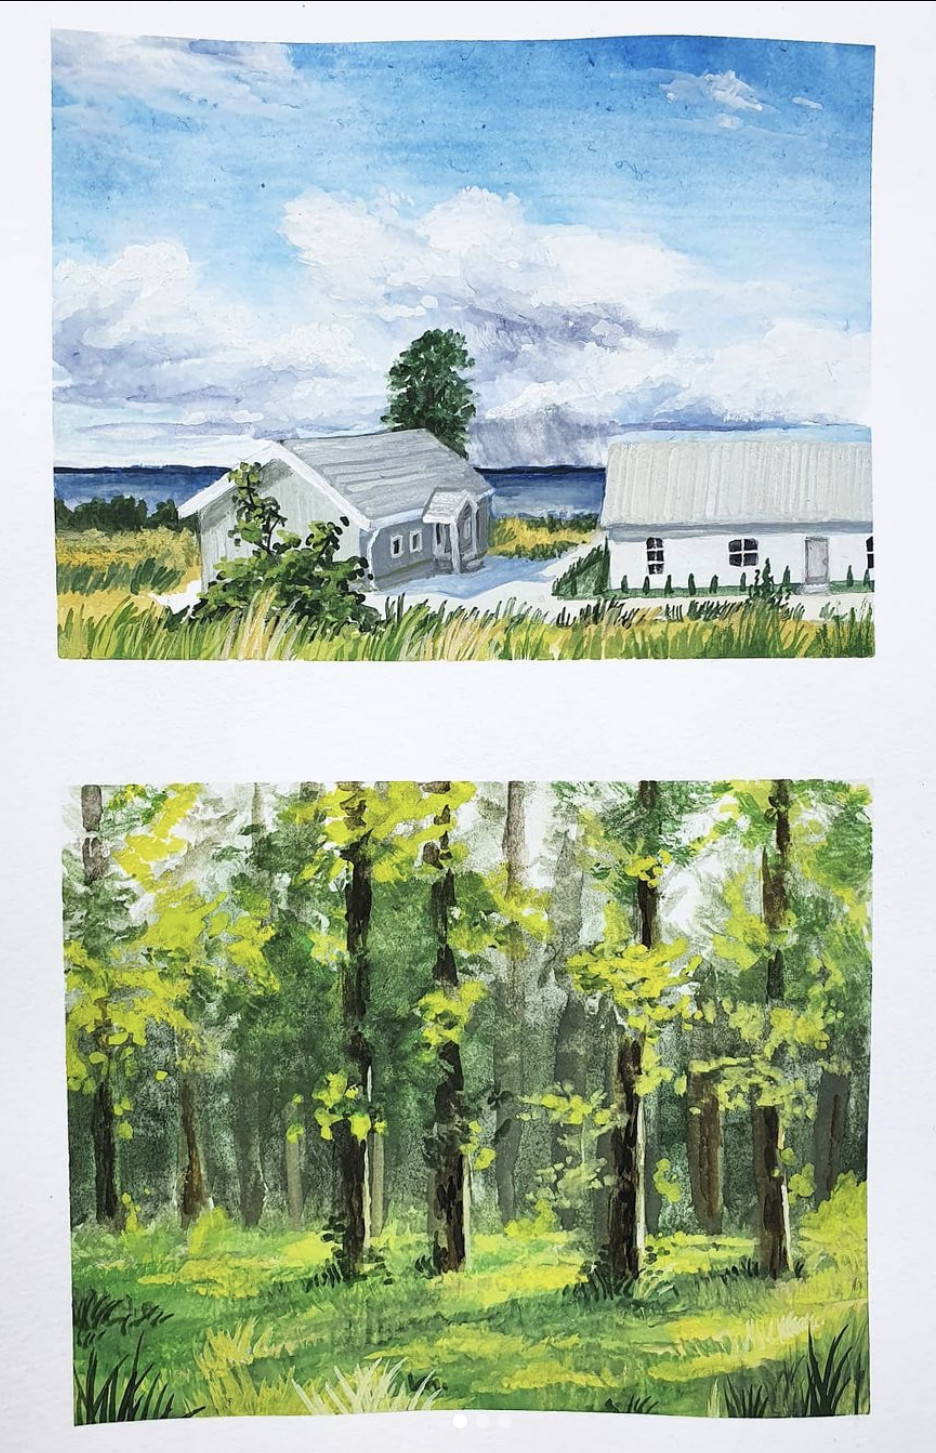
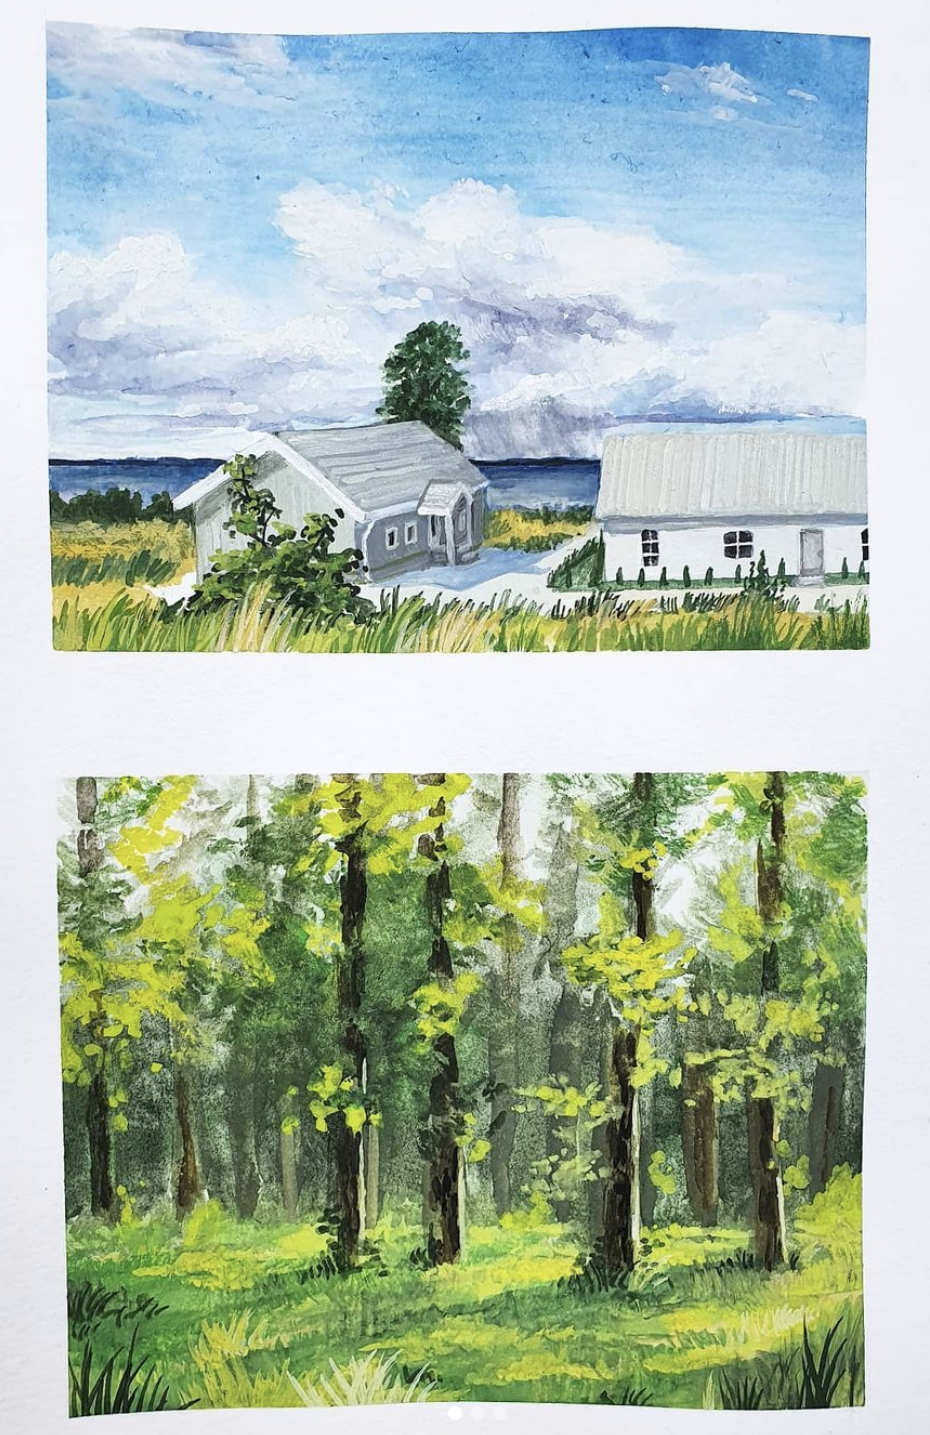
image alignment

diff --git a/index.html b/index.html
@@ -52,13 +52,16 @@
                     <p>Done together with Molly Gidfors Haraldsson, Emily Nilsson & Lucas Åkesson</p>
                 </div>
             </div>
-            
+
             <div class="pageElement"> 
                 <h2>Art & illustrations</h2>
-                <img src="instagram4.png">
-                <img src="instagram5.png">
-                <img src="instagram3.png">
-                <img src="instagram2.png">
+                <div>
+                    <img src="instagram4.png">
+                    <img src="instagram5.png">
+                    <img src="instagram3.png">
+                    <img src="instagram2.png">
+                </div>
+
                 <div>
                     <a href="https://www.instagram.com/vegalupine/">View more on my Instagram account</a>
                 </div>

diff --git a/style.css b/style.css
@@ -41,6 +41,7 @@ body {
   }
 
   img {
-      width: 50%;
+      width: 25%;
       height: auto;
+      float: left;
   }
